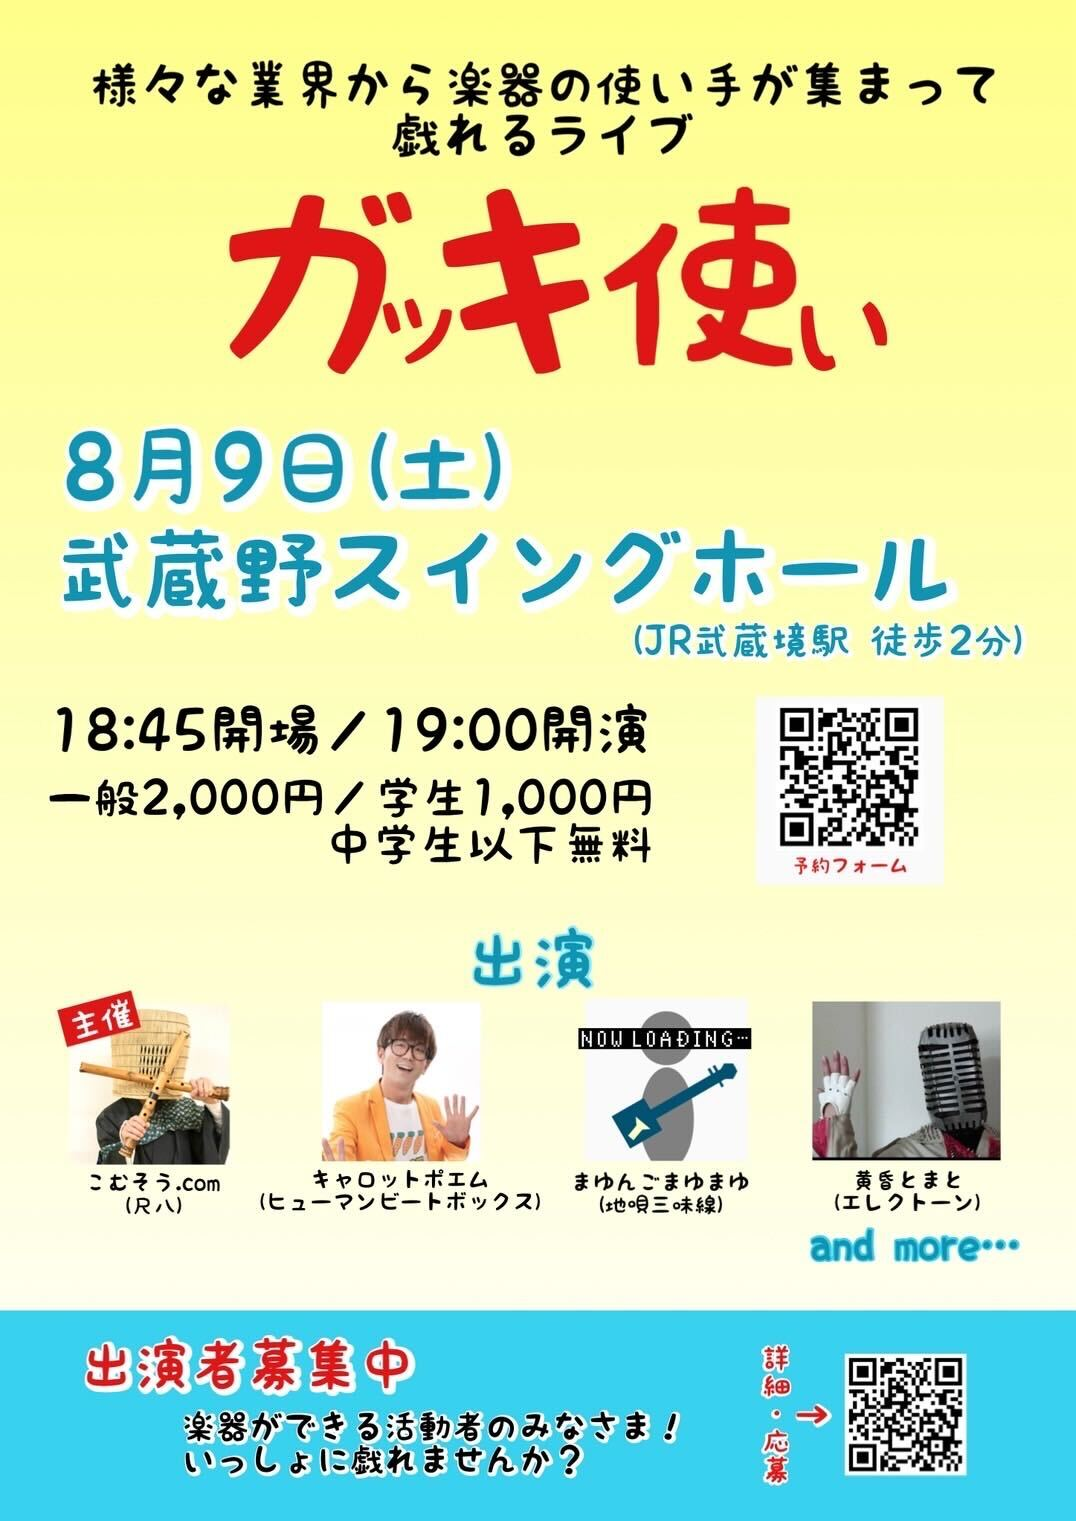
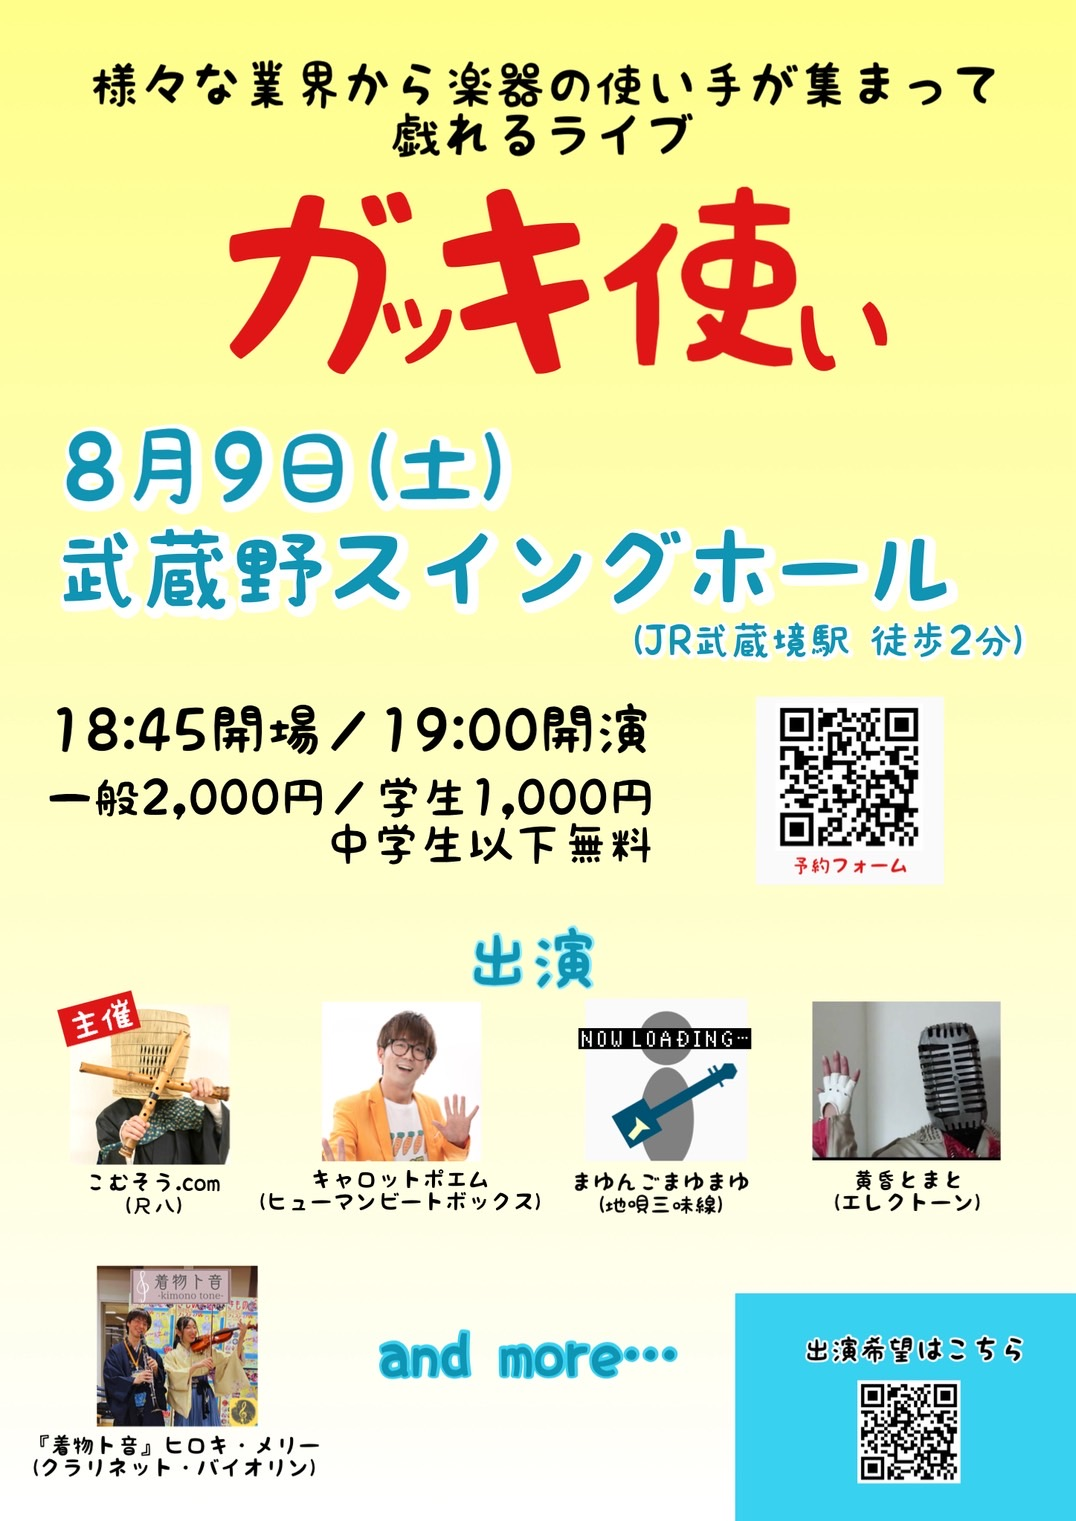
Update:出演者追加

diff --git a/casts.html b/casts.html
@@ -45,6 +45,11 @@
                 <p>こむそう.com<br>
                     尺八</p>
             </div>
+            <div class="member">
+                <img src="./images/kimono.jpg" width="320" height="320">
+                <p>『着物ト音』ヒロキ・メリー<br>
+                    クラリネット・バイオリン</p>
+            </div>
         </div>
     </body>
 </html>
